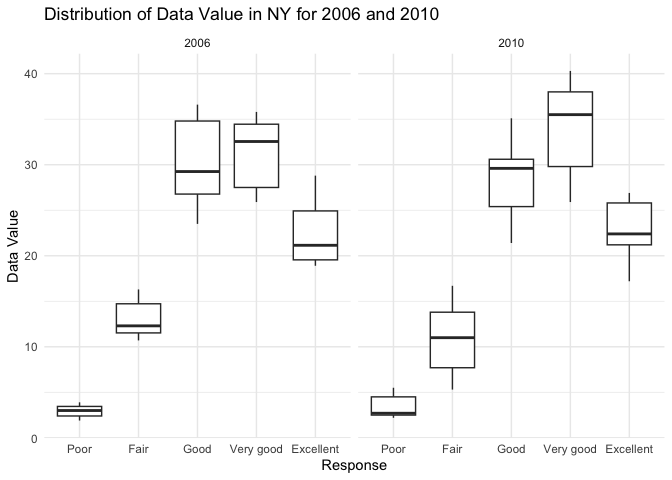
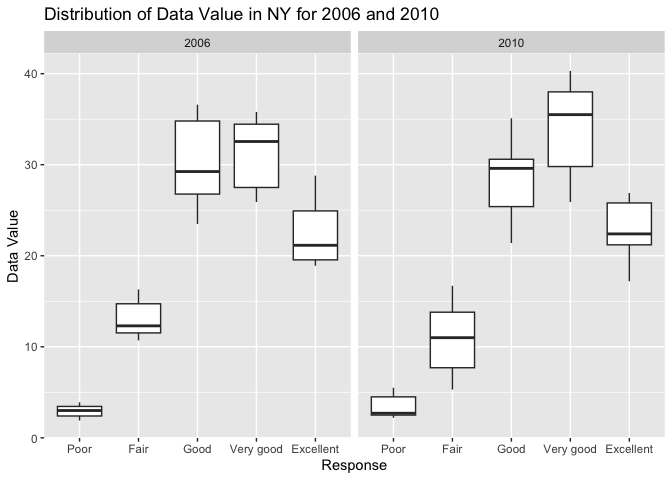
finished all parts of coding, lack discription.

diff --git a/p8105_hw3_ys3765.md b/p8105_hw3_ys3765.md
@@ -128,8 +128,7 @@ ggplot(ny_data, aes(x = response, y = data_value)) +
   facet_grid(~year) +
   labs(title = "Distribution of Data Value in NY for 2006 and 2010", 
        x = "Response", 
-       y = "Data Value") +
-  theme_minimal()
+       y = "Data Value")
 ```
 
 ![](p8105_hw3_ys3765_files/figure-gfm/two_panel%20plot-1.png)<!-- -->
@@ -139,7 +138,6 @@ ggplot(ny_data, aes(x = response, y = data_value)) +
 ``` r
 nhanes_accel <- read_csv("data/nhanes_accel.csv")%>%
   janitor::clean_names()%>%
-  #rename(id = seqn)%>%
   pivot_longer(min1:min1440,names_to = "table",values_to = "value")
 ```
 
@@ -214,5 +212,33 @@ clean_data_plot =
   labs(title = "Age Distributions by Gender and Education", x = "Education", y = "Age")
 clean_data_plot
 ```
+
+![](p8105_hw3_ys3765_files/figure-gfm/Visualization%20of%20the%20age%20distribution%20for%20men%20and%20women%20in%20each%20education%20categoru-1.png)<!-- -->
+
+``` r
+total<- clean_data%>%
+        group_by(clean_data$seqn)%>%
+        mutate(total = sum(value))
+
+ggplot(total,aes(x = age, y = total,color = sex))+
+  geom_point()+
+  geom_smooth()+
+  facet_wrap(~education)+
+  labs(title = "Total Activity vs Age by Education and Gender")
+```
+
+    ## `geom_smooth()` using method = 'gam' and formula = 'y ~ s(x, bs = "cs")'
+
+![](p8105_hw3_ys3765_files/figure-gfm/total%20activity%20plot-1.png)<!-- -->
+
+``` r
+ggplot(clean_data, aes(x = table, y = value,color = sex))+
+  geom_point(alpha = 0.5)+
+  geom_smooth()+
+  facet_wrap(~education)+
+  labs(title = "Activity time over 24-Hours by Education and Gender")
+```
+
+    ## `geom_smooth()` using method = 'loess' and formula = 'y ~ x'
 
 ![](p8105_hw3_ys3765_files/figure-gfm/unnamed-chunk-2-1.png)<!-- -->
